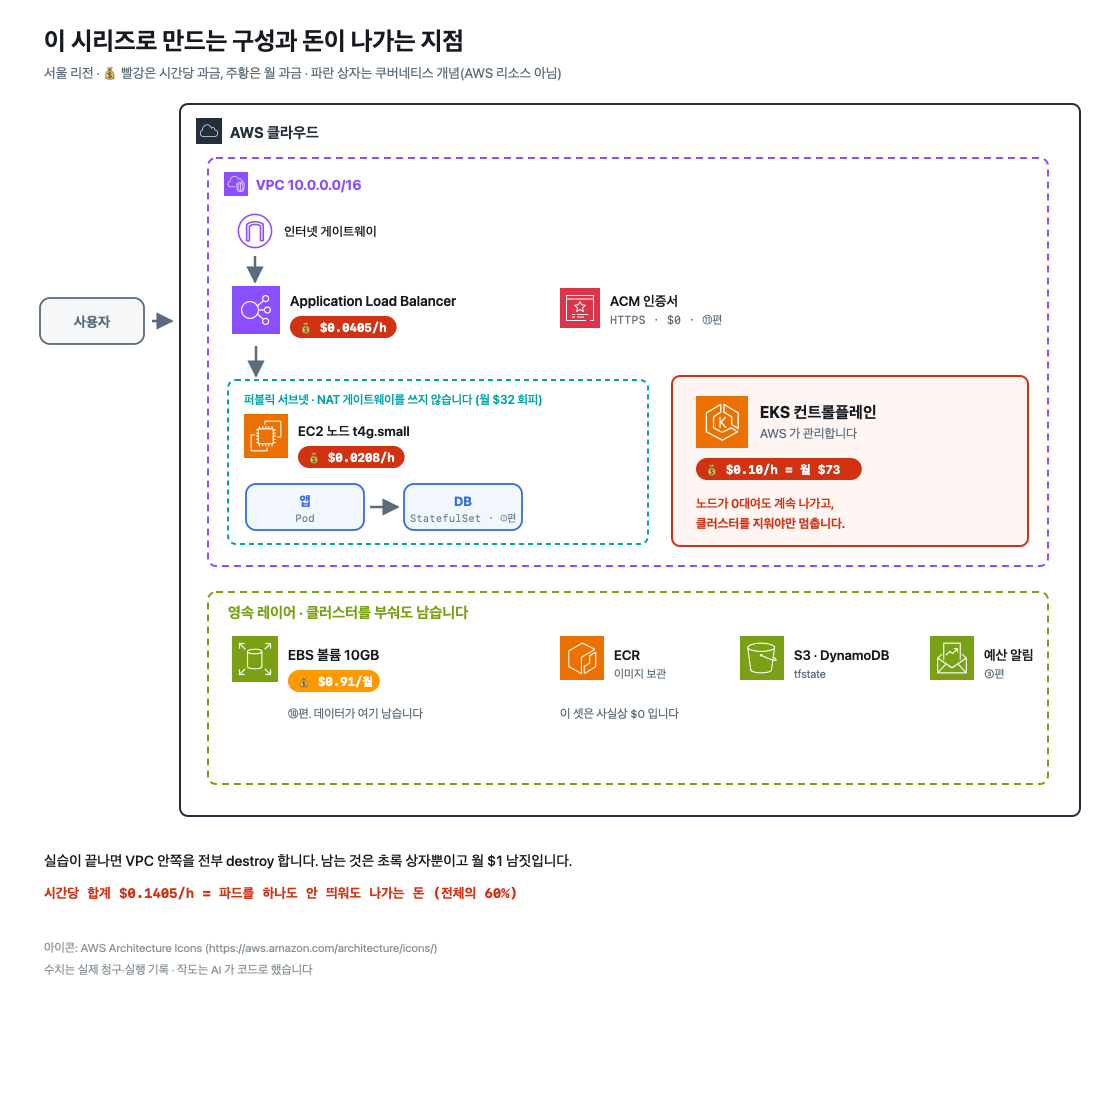
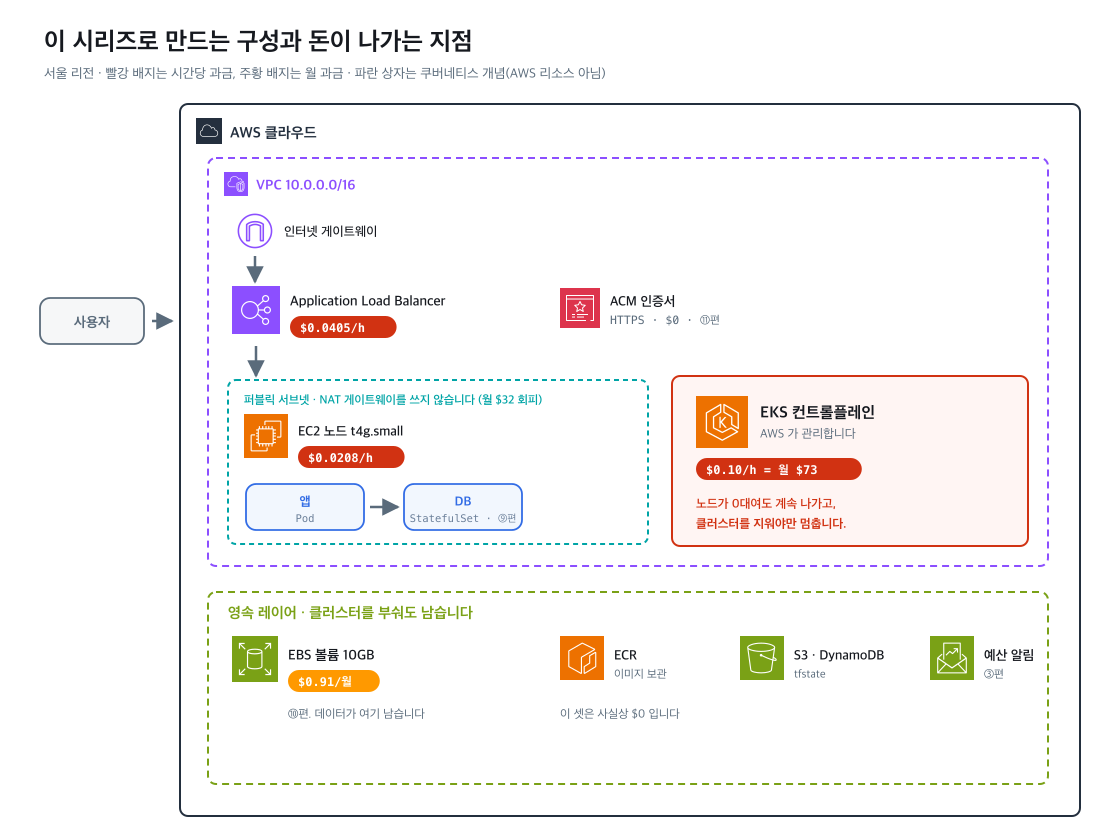
fix: 본문의 $ 가 수식으로 렌더되던 문제 + Fig.1 여백 제거
## 1. $ 가 katex 수식 구분자로 먹혔다

gatsby-remark-katex 가 $...$ 를 인라인 수식으로 읽는다. 비용을 다루는 글은
한 문단에 금액이 여러 번 나오므로 그 사이가 통째로 수식이 되어 글자가 한 자씩
쏟아졌다. "AWS EKS 실습기 ①" 에서 4곳이 깨진 채 배포돼 있었다.

글마다 손으로 고칠 일이 아니라 convert-notion.mjs 에서 escape 한다.
코드 블록과 인라인 코드는 katex 가 처리하지 않으므로 건드리지 않는다.
거기까지 escape 하면 역슬래시가 그대로 보인다.

네 가지 경우로 확인했다.
- 본문에 금액 3개      → 전부 escape
- 인라인 코드 안의 $   → 그대로
- 펜스 코드 안의 $HOME → 그대로
- 이미 escape 된 것    → 중복 escape 안 함

## 2. Fig.1 아래 280px 가 낭비였다

내용은 y=816 에서 끝나는데 캔버스가 1120x1120 이라 아래가 비어 있었고,
그 위 문구 4줄은 본문이 이미 하는 말이었다(고정비 60%, destroy 후 월 $1).
글에서 칼럼 폭에 맞춰 축소되므로 그만큼 도표가 작게 보인다.

정사각이었던 이유는 qlmanage 가 정사각으로만 렌더하기 때문이다.
rsvg-convert(librsvg)로 바꿔 1120x840 으로 맞췄다.

부수 변경: 배지의 💰 이모지를 뺐다. rsvg-convert 는 컬러 이모지 폰트를
렌더하지 못해 흑백 글리프가 된다. 배지 색(빨강=시간당, 주황=월)이 이미
같은 정보를 준다.

diff --git a/scripts/figures/aws-eks/fig01-cost-map.py b/scripts/figures/aws-eks/fig01-cost-map.py
@@ -10,7 +10,8 @@
 
 실행:
   python3 scripts/figures/aws-eks/fig01-cost-map.py
-  qlmanage -t -s 1120 -o static/images/aws-eks static/images/aws-eks/fig01-cost-map.svg
+  rsvg-convert -w 1120 static/images/aws-eks/fig01-cost-map.svg \
+    -o static/images/aws-eks/fig01-cost-map.png        # brew install librsvg
 
 아이콘: AWS Architecture Icons (https://aws.amazon.com/architecture/icons/)
   AWS 가 "아키텍처 다이어그램 작성" 용도로 배포한다. 다이어그램을 **직접 그리는 데**만 쓴다.
@@ -36,10 +37,12 @@ I = {
  "igw": f"{R}/Res_Networking-Content-Delivery/Res_Amazon-VPC_Internet-Gateway_48.svg",
  "cloud": f"{G}/AWS-Cloud_32.svg", "vpc": f"{G}/Virtual-private-cloud-VPC_32.svg",
 }
-# 🔴 qlmanage 는 정사각으로 렌더하므로 캔버스도 정사각이어야 한다.
-#    아래 여백을 sips 로 잘라 보려 했으나 sips -c 는 --cropOffset 을 줘도 **가운데 기준**이라
-#    제목이 날아간다. 자르지 말고 여백을 그대로 둔다.
-W = H = 1120
+# 🔴 캔버스는 내용에 딱 맞춘다. 초판은 `qlmanage` 로 PNG 를 뽑느라 정사각(1120x1120)이었고,
+#    내용이 y=816 에서 끝나 **아래 300px 가 빈 여백 + 중복 문구**였다. 글에서 칼럼 폭에 맞춰
+#    축소되므로 그 여백만큼 도표가 작아진다(사용자 지적, 2026-10-06).
+#    `rsvg-convert`(brew install librsvg)는 정사각 제약이 없다. sips -c 는 쓰지 마라 —
+#    --cropOffset 을 줘도 **가운데 기준**이라 제목이 날아간다.
+W, H = 1120, 840
 F = "-apple-system,'Apple SD Gothic Neo','Pretendard','Noto Sans KR',system-ui,sans-serif"
 M = "ui-monospace,SFMono-Regular,Menlo,monospace"
 K8S = "#326ce5"          # 쿠버네티스 파랑. AWS 리소스가 아닌 것은 이 색으로 통일한다
@@ -77,7 +80,9 @@ def box(x, y, w, h, stroke, dash="", fill="none", rx=8, sw=2):
 def cost(x, y, s, hot=True):
     c = HOT if hot else WARM
     e(f'<rect x="{x}" y="{y}" width="{len(s)*7.4+40}" height="22" rx="11" fill="{c}"/>')
-    txt(x + 9, y + 16, f"💰 {s}", 12, 700, "#fff", font=M)
+    # 🔴 이모지를 쓰지 마라. rsvg-convert 는 컬러 이모지 폰트를 렌더하지 못해 흑백 글리프가
+    #    된다(2026-10-06 실측). 배지 색(빨강=시간당·주황=월)이 이미 같은 정보를 준다.
+    txt(x + 10, y + 16, s, 12, 700, "#fff", font=M)
 
 def pod(x, y, label, note=""):
     """Pod 은 쿠버네티스 개념이라 AWS 아이콘을 쓰지 않는다."""
@@ -95,7 +100,7 @@ e('<defs><marker id="a" viewBox="0 0 10 10" refX="9" refY="5" markerWidth="7" ma
 e(f'<rect width="{W}" height="{H}" fill="#ffffff"/>')
 
 txt(44, 50, "이 시리즈로 만드는 구성과 돈이 나가는 지점", 25, 700)
-txt(44, 78, "서울 리전 · 💰 빨강은 시간당 과금, 주황은 월 과금 · 파란 상자는 쿠버네티스 개념(AWS 리소스 아님)",
+txt(44, 78, "서울 리전 · 빨강 배지는 시간당 과금, 주황 배지는 월 과금 · 파란 상자는 쿠버네티스 개념(AWS 리소스 아님)",
     13.5, 400, "#5a6b7b")
 
 # 사용자도 AWS 리소스가 아니므로 라벨로 그린다 (Pod 과 같은 규칙)
@@ -146,13 +151,9 @@ for key, x, name, sub in (("ecr", 560, "ECR", "이미지 보관"),
     ico(key, x, 636, 44); txt(x + 54, 660, name, 13.5, 600); txt(x + 54, 678, sub, 11.5, 400, "#5a6b7b")
 txt(560, 718, "이 셋은 사실상 $0 입니다", 12, 400, "#5a6b7b")
 
-txt(44, 866, "실습이 끝나면 VPC 안쪽을 전부 destroy 합니다. 남는 것은 초록 상자뿐이고 월 $1 남짓입니다.",
-    14.5, 500)
-txt(44, 898, "시간당  합계  $0.1405/h   =   파드를 하나도 안 띄워도 나가는 돈 (전체의 60%)",
-    13.5, 700, HOT, font=M)
-txt(44, 952, "아이콘: AWS Architecture Icons (https://aws.amazon.com/architecture/icons/)",
-    12, 400, "#879196")
-txt(44, 974, "수치는 실제 청구·실행 기록 · 작도는 AI 가 코드로 했습니다", 12, 400, "#879196")
+# 🔴 그림 아래 설명문을 넣지 않는다. 본문이 이미 같은 말을 하고(고정비 60% · destroy 후 월 $1),
+#    출처와 AI 작도 고지는 마크다운 캡션이 진다. 이미지 안의 글자는 검색도 번역도 안 되므로
+#    중복이면 덜어내는 쪽이 맞다.
 e("</svg>")
 
 out = "static/images/aws-eks/fig01-cost-map.svg"
